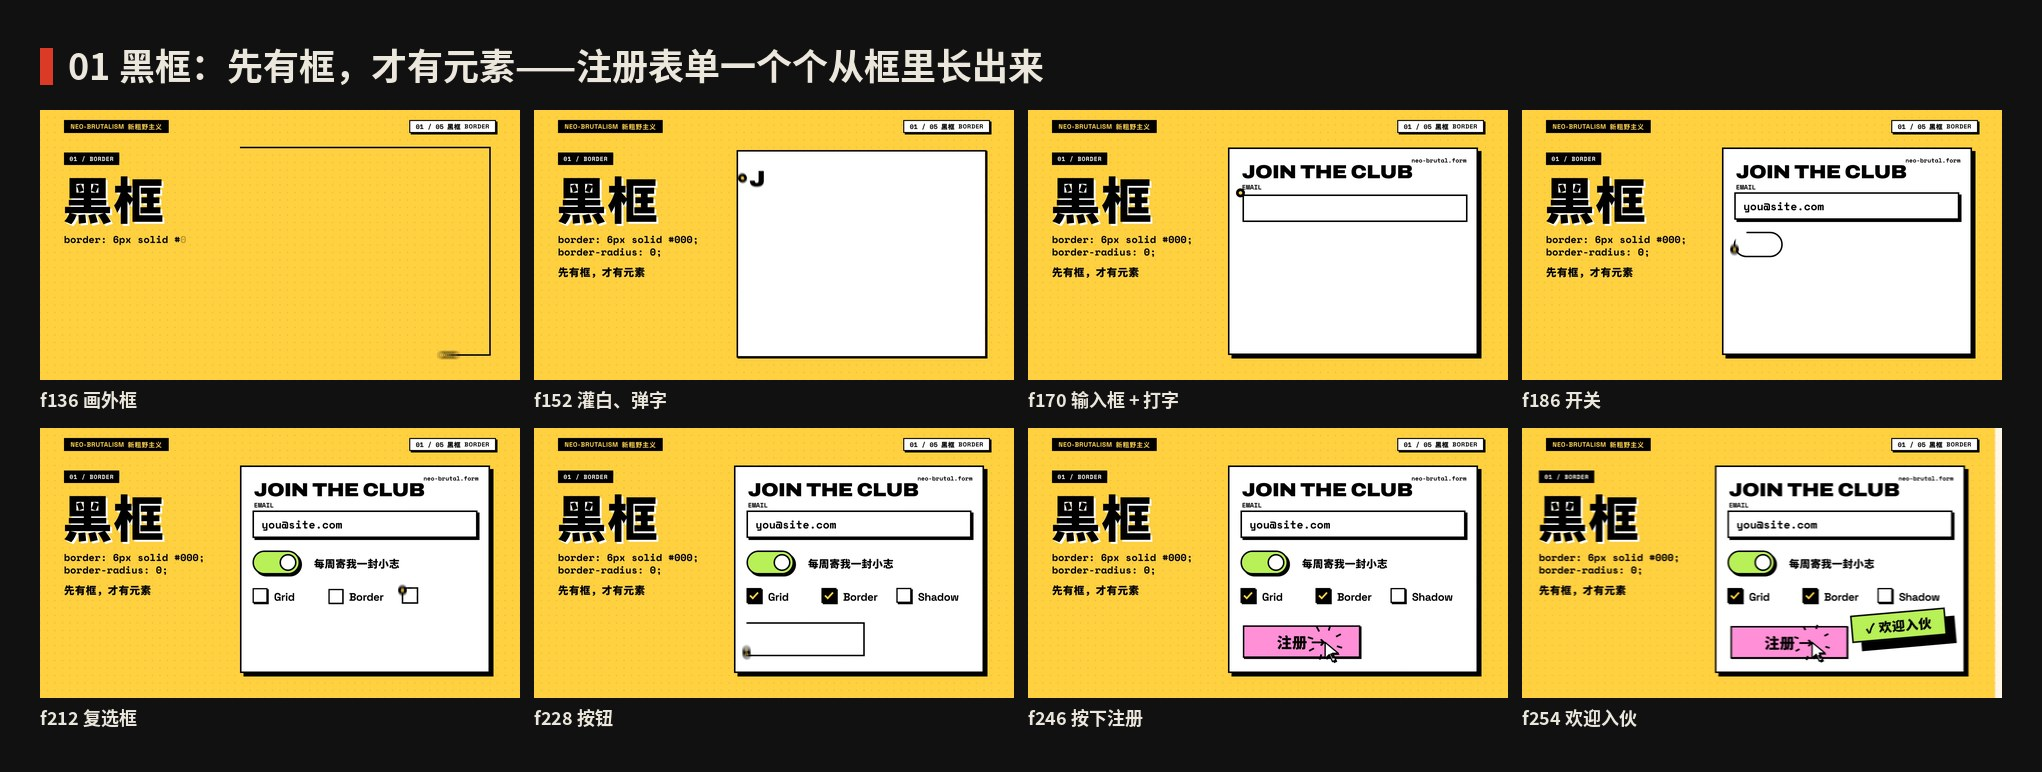
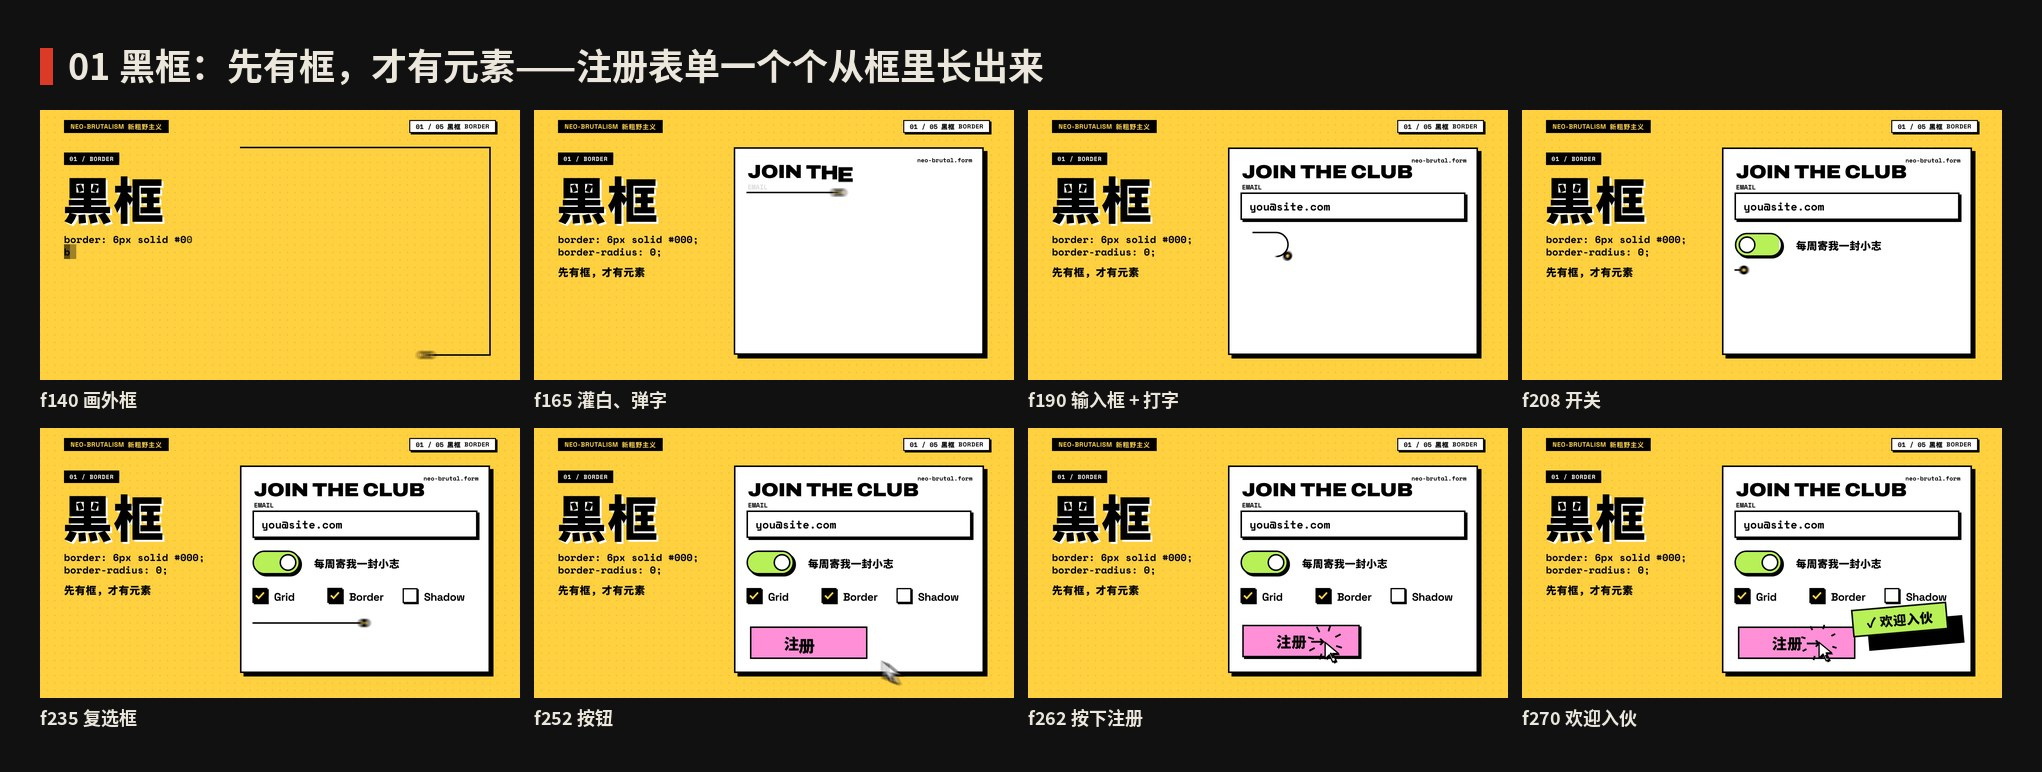
009 · 新粗野主义：01 与 05 放慢一点，成片 20 秒
* timeline.ts 新增 WARP（成片帧 → 源帧）：01 黑框 ×1.14、05 应用 ×1.05，其余不变；1170 → 1200 帧
* 配乐的 fr() 走同一张表，所有拍点、音效随画面一起放慢，仍然对齐；首尾仍是同一帧
* 时间轴、tokens、文档、过程图、封面与 pending 哈希同步

Claude-Session: https://claude.ai/code/session_01M6UTaiph5L5NAZjjyr2qu3

diff --git a/styles/009-neo-brutalism/video/NeoBrutalism.tsx b/styles/009-neo-brutalism/video/NeoBrutalism.tsx
@@ -1,15 +1,15 @@
 /**
- * Design Style · 风格 009 · 新粗野主义 Neo-Brutalism —— 19.5 秒短片（1920×1080 · 60fps · 120 BPM）
+ * Design Style · 风格 009 · 新粗野主义 Neo-Brutalism —— 20 秒短片（1920×1080 · 60fps · 120 BPM；01 与 05 放慢一点，见 timeline.ts 的 WARP）
  *
  * 全片只有一条物理：阴影长度 = 离纸面的高度 z。抬起来阴影变长，落下去缩回，按下去归零。
  *   0.0–2.0s   开场    第一帧 = 片尾海报（循环无缝）→ 一按就炸开 → 十三颗键帽浮上来、打字、一起按下 → 镜头钻进 O
- *   2.0–4.5s   01 黑框  画面是空的：笔先画框，元素一个个从框里长出来，拼成注册表单 → 画布向左甩
- *   4.5–7.0s   02 硬影  模糊 40 → 0；卡片抬起、落下；摊成五层阶梯 → 最高那张蓝卡撑满全屏
- *   7.0–9.5s   03 按下  二十颗按钮落下；按一下，按压像水波一样扩散；全部按下，褪成混凝土
- *   9.5–12.0s  04 来历  同一面网格：1952 清水混凝土 → 2014 粗野主义网页 → 2021 新粗野主义；年份里程表
- *  12.0–15.0s  05 应用  浏览器落地页 + 手机 App，一层层从高处落进来；光标在两边各按一下
- *  15.0–17.5s  五个词  黑框 / 硬影 / 平涂 / 露结构 / 歪一点
- *  17.5–19.5s  片尾    海报三块从高处落下，所有阴影一起按一下；署名 @guanmo_ai；最后一帧 = 第一帧
+ *   2.0–4.85s  01 黑框  画面是空的：笔先画框，元素一个个从框里长出来，拼成注册表单 → 画布向左甩
+ *   4.85–7.35s 02 硬影  模糊 40 → 0；卡片抬起、落下；摊成五层阶梯 → 最高那张蓝卡撑满全屏
+ *   7.35–9.85s 03 按下  二十颗按钮落下；按一下，按压像水波一样扩散；全部按下，褪成混凝土
+ *   9.85–12.35s 04 来历  同一面网格：1952 清水混凝土 → 2014 粗野主义网页 → 2021 新粗野主义；年份里程表
+ *  12.35–15.5s 05 应用  浏览器落地页 + 手机 App，一层层从高处落进来；光标在两边各按一下
+ *  15.5–18.0s  五个词  黑框 / 硬影 / 平涂 / 露结构 / 歪一点
+ *  18.0–20.0s  片尾    海报三块从高处落下，所有阴影一起按一下；署名 @guanmo_ai；最后一帧 = 第一帧
  */
 import React, {useEffect, useState} from 'react';
 import {AbsoluteFill, Audio, continueRender, delayRender, staticFile, useCurrentFrame} from 'remotion';
@@ -20,10 +20,10 @@ import {Opening} from './opening';
 import {Borders, Grid, Shadows} from './scenes';
 import {Apps} from './apps';
 import {End, Words} from './finale';
-import {AT, CHAPTERS, DURATION} from './timeline';
+import {AT, CHAPTERS, OUT_DURATION, toSource} from './timeline';
 import {WHIP, grot, loadFonts, mono, sc} from './ui';
 
-export const NEOBRUTAL_DURATION = DURATION;
+export const NEOBRUTAL_DURATION = OUT_DURATION;
 
 /** 顶部两枚“筹码”：左边风格名，右边章节；开场、五个词、片尾让开 */
 const Hud: React.FC<{f: number}> = ({f}) => {
@@ -66,7 +66,7 @@ const Hud: React.FC<{f: number}> = ({f}) => {
 };
 
 const Stage: React.FC = () => {
-  const f = useCurrentFrame();
+  const f = toSource(useCurrentFrame());
   const on = (a: number, b: number) => f >= a && f < b;
   // 01 → 02：同一张画布向左甩过去
   const whip = tween(f, AT.shadow - 18, 18, 0, 1, WHIP);

diff --git a/styles/009-neo-brutalism/video/timeline.ts b/styles/009-neo-brutalism/video/timeline.ts
@@ -9,7 +9,7 @@ export const AT = {
   words: 900, // 五个词：黑框 / 硬影 / 平涂 / 露结构 / 歪一点，一拍一张卡片叠上来
   end: 1050, // 片尾：海报三块从高处落下，全部阴影一起按一下 → 回到第一帧
 };
-export const DURATION = 1170; // 19.5 秒
+export const DURATION = 1170; // 源帧（19.5 秒）；成片见 OUT_DURATION
 export const BEAT = 30;
 export const WORD_AT = [0, 1, 2, 3, 4].map((i) => AT.words + i * 30);
 export const CHAPTERS: [string, string, number][] = [
@@ -19,3 +19,26 @@ export const CHAPTERS: [string, string, number][] = [
   ['来历', 'LINEAGE', AT.lineage],
   ['应用', 'IN USE', AT.apps],
 ];
+
+/**
+ * 成片时间 → 源时间（上面所有帧号都是“源帧”）。信息密的两章放慢一点：01 黑框 ×1.14、05 应用 ×1.05，
+ * 成片 1170 → 1200 帧（20 秒）。配乐用同一张表（audio/make_music.py 的 WARP），拍点仍然对齐
+ */
+export const WARP: [number, number, number][] = [
+  // [源起点, 源终点, 放慢倍数]
+  [0, AT.border, 1],
+  [AT.border, AT.shadow, 1.14],
+  [AT.shadow, AT.apps, 1],
+  [AT.apps, AT.words, 1.05],
+  [AT.words, DURATION, 1],
+];
+export const OUT_DURATION = Math.round(WARP.reduce((n, [a, b, k]) => n + (b - a) * k, 0)); // 1200
+export const toSource = (o: number) => {
+  let o0 = 0;
+  for (const [a, b, k] of WARP) {
+    const len = (b - a) * k;
+    if (o < o0 + len) return a + (o - o0) / k;
+    o0 += len;
+  }
+  return DURATION - 1 + (o - (OUT_DURATION - 1));
+};

diff --git a/styles/009-neo-brutalism/audio/make_music.py b/styles/009-neo-brutalism/audio/make_music.py
@@ -1,7 +1,7 @@
 """
 Design Style · 风格 009 · 新粗野主义 Neo-Brutalism —— 配乐与音效（纯代码合成，无外部音源）
 
-120 BPM（1 拍 = 0.5 秒 = 30 帧）· 19.5 秒 · E 小调 → G 大调
+120 BPM（1 拍 = 0.5 秒 = 30 帧；01、05 两章随画面放慢到约 105 / 114 BPM）· 20 秒 · E 小调 → G 大调
 和弦：开场只有键帽与重击 | Em（01）| C（02）| G（03）| D（04）| Em C（05）| C D Em C D（五个词，每拍一个）| G（片尾）
 音色：方波贝斯（只留奇次谐波，像一块没打磨的混凝土）、909 式底鼓 + 拍手、反拍的方波和弦“戳”、木琴旋律。
   0–2s       开场：f8 海报被按下 · f14 炸开 · 十三颗键帽依次落稳 · 一道打字的波 · f75 一起按下 · f84 一起弹起 · f96 钻进 O
@@ -26,7 +26,7 @@ import wave
 import numpy as np
 
 SR = 48000
-DUR = 19.5
+DUR = 20.0
 NV = int(SR * DUR)  # 成片长度
 N = int(SR * (DUR + 1.5))  # 多算 1.5 秒余音，最后折回开头：循环播放时首尾无缝
 rng = np.random.default_rng(2021)
@@ -38,8 +38,17 @@ PUMP = np.zeros((2, N))
 LEAD = np.zeros((2, N))
 
 
+# 源帧 → 成片秒数：与 video/timeline.ts 的 WARP 相同（01 黑框 ×1.14、05 应用 ×1.05）
+WARP = [(0, 120, 1.0), (120, 270, 1.14), (270, 720, 1.0), (720, 900, 1.05), (900, 1170, 1.0)]
+
+
 def fr(frame):
-    return frame / 60.0
+    o = 0.0
+    for a, b, k in WARP:
+        if frame < b:
+            return (o + (frame - a) * k) / 60.0
+        o += (b - a) * k
+    return (o + frame - WARP[-1][1]) / 60.0
 
 
 def place(sig, t, gain=1.0, pan=0.0, send=0.0, bus=None):

diff --git a/styles/009-neo-brutalism/README.md b/styles/009-neo-brutalism/README.md
@@ -121,9 +121,9 @@ transition: 100ms linear。颜色平涂 #FFD23F / #FF8FD6 / #B8F15A / #7AA2FF / 
 字体 Archivo 900 + Space Grotesk 700 + Space Mono + Noto Sans SC。令牌见 tokens.css。
 ```
 
-## 9 · 19.5 秒分镜
+## 9 · 20 秒分镜
 
-全片只有一条物理：**阴影长度 = 离纸面的高度**。东西抬起来，阴影变长、整块往左上浮；落下去，阴影缩回；按下去，阴影归零。键帽、笔、卡片、按钮全都按这一条动。换章不用淡入淡出，用同一个东西接力：钻进键帽 O 的孔、整张画布甩过去、最高的那张卡撑满全屏、同一面网格从按钮变成混凝土再变回按钮。每一次落地和按下都在 120 BPM 的拍点或半拍上。
+全片只有一条物理：**阴影长度 = 离纸面的高度**。东西抬起来，阴影变长、整块往左上浮；落下去，阴影缩回；按下去，阴影归零。键帽、笔、卡片、按钮全都按这一条动。换章不用淡入淡出，用同一个东西接力：钻进键帽 O 的孔、整张画布甩过去、最高的那张卡撑满全屏、同一面网格从按钮变成混凝土再变回按钮。每一次落地和按下都在拍点或半拍上（120 BPM；信息最密的 01 和 05 两章，画面和配乐一起放慢一点，约 105 / 114 BPM）。
 
 **为推特做的三件事：** 第一帧就是最好看的那一帧（片尾海报），0.15 秒内就有动作；首尾是同一帧、配乐的余音折回开头，自动循环时看不出接缝；静音也看得懂——每条规则都写在画面上，代码用 40px 的等宽大字。镜头不晃。
 
@@ -132,13 +132,13 @@ transition: 100ms linear。颜色平涂 #FFD23F / #FF8FD6 / #B8F15A / #7AA2FF / 
 | 时间 | 帧 | 章节 | 画面 | 教的是什么 |
 |---|---|---|---|---|
 | 0:00—2.0 | 0—120 | 开场 | 第一帧就是片尾海报；光标一按，海报炸开；十三颗巨型键帽 N·E·O-B·R·U·T·A·L·I·S·M 浮上来、由中间向两边落稳；一道打字的波按过去；十三颗一起按下、一起弹起；镜头钻进 O 的孔 | 硬阴影 = 能按 |
-| 2.0—4.5 | 120—270 | 01 黑框 | 画面是空的：一支笔先画框，颜色从框里灌满、文字弹出、阴影落下——表单、输入框、开关、复选框、按钮一个个长出来，拼成一张注册表单；光标按下“注册”，「✓ 欢迎入伙」落下；画布向左甩 | 先有框，才有元素 |
-| 4.5—7.0 | 270—420 | 02 硬影 | 模糊从 40 拉到 0；卡片抬起（阴影 14 → 52）再落下；摊开成五层阶梯（4 / 8 / 14 / 24 / 40）；最高那张蓝卡撑满全屏 | 层级 = 偏移量 |
-| 7.0—9.5 | 420—570 | 03 按下 | 二十颗按钮从上面落下；点一下，按压像水波一样扩散；从角上再来一波；按一颗，全部按下，颜色褪成混凝土 | 本期最有用的一招 |
-| 9.5—12.0 | 570—720 | 04 来历 | 同一面网格接着讲：混凝土长出窗洞（1952 马赛公寓）→ 翻牌成 2014 年的默认网页 → 重新弹起成 2021 年的按钮；年份像里程表一样滚 | 它从哪来 |
-| 12.0—15.0 | 720—900 | 05 应用 | 浏览器从高处落下：导航、两行巨型标题、贴纸、按钮、三张功能卡依次落进来，底部字幕条一直在走；手机落到右边，余额从 0 数到 3,280、列表依次落下；光标在网页按“开始使用”，再到手机按“+ 记一笔” | 网页和 App 里长什么样 |
-| 15.0—17.5 | 900—1050 | 五个词 | 黑框 / 硬影 / 平涂 / 露结构 / 歪一点：一拍一张整屏卡片从高处落下（阴影由长变短），叠成一摞 | 五条规则 |
-| 17.5—19.5 | 1050—1170 | 片尾 | 整叠卡片掉下去；NEO / BRUTAL / ISM 从高处落下；贴纸、署名；光标一按，所有阴影一起归零再弹回——回到第一帧 | — |
+| 2.0—4.85 | 120—291 | 01 黑框 | 画面是空的：一支笔先画框，颜色从框里灌满、文字弹出、阴影落下——表单、输入框、开关、复选框、按钮一个个长出来，拼成一张注册表单；光标按下“注册”，「✓ 欢迎入伙」落下；画布向左甩 | 先有框，才有元素 |
+| 4.85—7.35 | 291—441 | 02 硬影 | 模糊从 40 拉到 0；卡片抬起（阴影 14 → 52）再落下；摊开成五层阶梯（4 / 8 / 14 / 24 / 40）；最高那张蓝卡撑满全屏 | 层级 = 偏移量 |
+| 7.35—9.85 | 441—591 | 03 按下 | 二十颗按钮从上面落下；点一下，按压像水波一样扩散；从角上再来一波；按一颗，全部按下，颜色褪成混凝土 | 本期最有用的一招 |
+| 9.85—12.35 | 591—741 | 04 来历 | 同一面网格接着讲：混凝土长出窗洞（1952 马赛公寓）→ 翻牌成 2014 年的默认网页 → 重新弹起成 2021 年的按钮；年份像里程表一样滚 | 它从哪来 |
+| 12.35—15.5 | 741—930 | 05 应用 | 浏览器从高处落下：导航、两行巨型标题、贴纸、按钮、三张功能卡依次落进来，底部字幕条一直在走；手机落到右边，余额从 0 数到 3,280、列表依次落下；光标在网页按“开始使用”，再到手机按“+ 记一笔” | 网页和 App 里长什么样 |
+| 15.5—18.0 | 930—1080 | 五个词 | 黑框 / 硬影 / 平涂 / 露结构 / 歪一点：一拍一张整屏卡片从高处落下（阴影由长变短），叠成一摞 | 五条规则 |
+| 18.0—20.0 | 1080—1200 | 片尾 | 整叠卡片掉下去；NEO / BRUTAL / ISM 从高处落下；贴纸、署名；光标一按，所有阴影一起归零再弹回——回到第一帧 | — |
 
 ## 10 · 文件
 
@@ -151,8 +151,8 @@ transition: 100ms linear。颜色平涂 #FFD23F / #FF8FD6 / #B8F15A / #7AA2FF / 
 ├─ video/NeoBrutalism.tsx       # 主合成、HUD、运动模糊、配乐
 ├─ video/opening.tsx            # 0—2 秒：海报炸开 → 十三颗键帽 → 钻进 O
 ├─ video/scenes.tsx             # 2—10 秒：笔、抬起与阶梯、按钮水波 → 混凝土 → 网页 → 按钮
-├─ video/apps.tsx               # 12—15 秒：网页落地页 + 手机 App
-├─ video/finale.tsx             # 15—19.5 秒：五个词、片尾
+├─ video/apps.tsx               # 12.35—15.5 秒：网页落地页 + 手机 App
+├─ video/finale.tsx             # 15.5—20 秒：五个词、片尾
 ├─ video/ui.tsx · timeline.ts   # 硬阴影 Box（高度 z）、落地、甩镜缓动、光标、点阵
 ├─ audio/make_music.py
 └─ images/make_svgs.py          # poster / cheatsheet / app-ui / steps

diff --git a/styles/009-neo-brutalism/PROCESS.md b/styles/009-neo-brutalism/PROCESS.md
@@ -2,7 +2,7 @@
 
 **中文** · [English](PROCESS.en.md)
 
-> 这一期是怎么从三个候选风格里选出来，再变成 19.5 秒短片和 4 张图的。
+> 这一期是怎么从三个候选风格里选出来，再变成 20 秒短片和 4 张图的。
 > 过程图在 [`process/`](process)，可复现的代码在 `video/` `audio/` `images/`。
 
 🎬 [看成片（Releases · day-09）](https://github.com/guanmo-ai/design-style/releases/tag/day-09) · 📐 [风格指南](README.md)
@@ -75,7 +75,7 @@
 
 ## 5 · 分镜与节拍
 
-时间轴见 [`process/timeline.json`](process/timeline.json)。7 段，每一次砸和按都写成帧号，落在拍点或半拍上。逐段表见 [风格指南 §9](README.md#9--195-秒分镜)。
+时间轴见 [`process/timeline.json`](process/timeline.json)。7 段，每一次砸和按都写成帧号，落在拍点或半拍上。逐段表见 [风格指南 §9](README.md#9--20-秒分镜)。
 
 | 过程图 | 内容 |
 |---|---|
@@ -120,6 +120,7 @@ npm run images:009
 | 每一次落地都用衰减正弦晃镜头，再加 15% 过冲的弹簧，整片一直在颤 | 去掉所有 `shake`，只在六个关键落地点用单向的 `thud`（往下沉一下、不来回）；弹簧阻尼 13 → 17，过冲降到约 5% |
 | 第二版的中段场景缺少贯穿全片的运动元素 | 对照 002 / 004 / 008 抽帧：它们都有一个贯穿全片的接力元素、每一刻只有一个巨大的主角、镜头在动。重写为：键帽（开场）→ 一支笔（01）→ 抬起与阶梯（02）→ 同一面网格从按钮变混凝土、网页、再变回按钮（03—04）；全片改用“高度 z”一条物理；换章用钻进 O、整张画布甩过去、最高的卡撑满全屏 |
 | 第三版的画框场景太集中，界面示例没有展开 | 01 改为画面全空，笔先画框，元素从框里一个个长出来，拼成注册表单；中间各章放到 2.5 秒，总长 15 → 19.5 秒；新增 05 应用：浏览器落地页 + 手机记账 App，一层层从高处落进来 |
+| 第四版审片：节奏还是稍快，01 黑框里看不清 | 不改结构，只在信息最密的两章放慢：01 ×1.14、05 ×1.05（`timeline.ts` 的 `WARP`），成片 19.5 → 20 秒；配乐的每个事件走同一张时间表，拍点和画面仍然对齐 |
 | 手机上看，代码和说明太小 | 代码从小编辑器改成黑底 40px 代码条；章节代码 30 → 40px、说明 34 → 42px、HUD 22 → 26px；打完字的光标不再闪 |
 | 低透明度大面积色块在 Chromium 里分块 | 图里的半透明一律预先算成实色 |
 

diff --git a/styles/009-neo-brutalism/README.en.md b/styles/009-neo-brutalism/README.en.md
@@ -6,7 +6,7 @@
 
 ## Overview
 
-Black borders on everything, shadows that are solid offset blocks, flat saturated color. A 19.5-second film runs on one piece of physics — shadow length is height. It opens on its own end card; press it and it shatters into thirteen giant keycaps that land, get typed and pressed, and the camera dives into the O. Then, on an empty canvas, a pen draws each frame first and a sign-up form grows out of the borders one element at a time, a card lifts and fans into a staircase of shadows, and a grid of twenty buttons ripples when pressed, drains into 1952 raw concrete, flips into a 2014 brutalist web page, and pops back as 2021 UI. Finally a landing page and a phone app assemble layer by layer, so you see the style in real interfaces.
+Black borders on everything, shadows that are solid offset blocks, flat saturated color. A 20-second film runs on one piece of physics — shadow length is height. It opens on its own end card; press it and it shatters into thirteen giant keycaps that land, get typed and pressed, and the camera dives into the O. Then, on an empty canvas, a pen draws each frame first and a sign-up form grows out of the borders one element at a time, a card lifts and fans into a staircase of shadows, and a grid of twenty buttons ripples when pressed, drains into 1952 raw concrete, flips into a 2014 brutalist web page, and pops back as 2021 UI. Finally a landing page and a phone app assemble layer by layer, so you see the style in real interfaces.
 
 Series: **Design styles**. Period shown: **2021—today** (roots in 1950s Brutalist architecture).
 
@@ -59,7 +59,7 @@ Series: **Design styles**. Period shown: **2021—today** (roots in 1950s Brutal
 |---|---|
 | Canvas | 1920 × 1080 |
 | Frame rate | 60 fps |
-| Duration | 19.5 s / 1170 frames |
+| Duration | 20 s / 1200 frames (chapters 01 and 05 run slightly slower) |
 | Tempo | 120 BPM (every slam and press lands on a beat or half-beat) |
 | Loop | First frame = last frame; the music’s tail folds back into the start, so autoplay loops are seamless |
 

diff --git a/styles/009-neo-brutalism/PROCESS.en.md b/styles/009-neo-brutalism/PROCESS.en.md
@@ -21,7 +21,7 @@ All motion follows one rule: **shadow length = height z**. Lift an element and i
 ## Workflow
 
 1. Read the [English guide](README.en.md). The through-line is “shadow length = height”: every element lifts, lands and presses by the same rule.
-2. Use `process/timeline.json` for chapter timing. Segments cover all 1170 frames; every hit is a frame number on a beat or half-beat.
+2. Use `process/timeline.json` for chapter timing. Segments cover all 1200 frames; every hit is a frame number on a beat or half-beat.
 3. Build `video/` in Remotion: `opening.tsx`, `scenes.tsx` (border, shadow, press, lineage), `apps.tsx` (landing page + phone app), `finale.tsx` (five words, end card).
 4. Generate audio with `audio/make_music.py` (NumPy only; no sample libraries).
 5. Build the four sheets from `images/make_svgs.py`.
@@ -33,7 +33,7 @@ All motion follows one rule: **shadow length = height z**. Lift an element and i
 |---|---|
 | Canvas | 1920 × 1080 |
 | Frame rate | 60 fps |
-| Duration | 19.5 seconds / 1170 frames |
+| Duration | 20 seconds / 1200 frames |
 | Tempo | 120 BPM |
 | Motion blur | 120° shutter, 8 samples |
 
